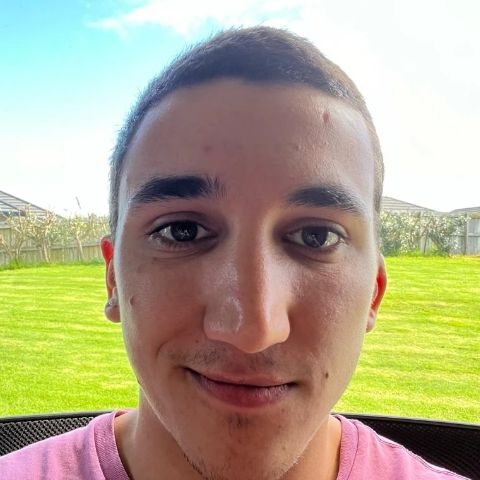
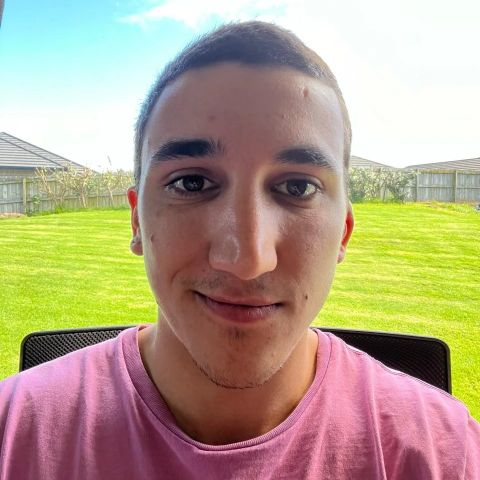
Web: foto con más aire y puntaje animado al lado de Por qué Compila

diff --git a/index.html b/index.html
@@ -591,6 +591,22 @@ footer .fl svg{width:17px;height:17px}
   .firma{width:170px}
   .app{padding:34px 8px 9px;gap:5px}.ah b{font-size:14px}.ar{padding:6px 8px;border-radius:10px}.ar b{font-size:11px}.ar small{font-size:9.5px}.tg{font-size:9px;padding:2px 6px}.af{font-size:9.5px;padding:6px 8px}.tabs span{font-size:9.5px;padding:3px 6px}
 }
+
+/* Por qué: puntaje al costado */
+.vsw{display:grid;grid-template-columns:minmax(0,1.4fr) minmax(0,.6fr);gap:22px;margin-top:40px;align-items:stretch}
+.vsw .vs{margin-top:0;max-width:none}
+.pt{border:1px solid var(--line);border-radius:18px;padding:28px 26px;display:flex;flex-direction:column;justify-content:center;gap:26px;background:radial-gradient(90% 70% at 100% 0%,rgba(77,99,255,.2),transparent 70%),var(--card)}
+.pt-h{font-family:var(--mono);font-size:13px;color:var(--dim)}
+.pt-r{display:grid;grid-template-columns:1fr auto;gap:10px 12px;align-items:end}
+.pt-r span{color:var(--dim);font-size:15px}
+.pt-r b{font-size:34px;line-height:1;letter-spacing:-.03em;font-variant-numeric:tabular-nums}
+.pt-r i{grid-column:1/-1;height:10px;border-radius:10px;background:rgba(255,255,255,.07);overflow:hidden}
+.pt-r u{display:block;height:100%;width:0;border-radius:10px;background:#6f7488;transition:width 1.3s cubic-bezier(.2,.8,.2,1)}
+.pt-r.md u{background:#ffc56d}
+.pt-r.y span{color:var(--txt);font-weight:700}
+.pt-r.y b{background:linear-gradient(90deg,#9fb0ff,var(--ok));-webkit-background-clip:text;background-clip:text;color:transparent;font-size:46px}
+.pt-r.y u{background:linear-gradient(90deg,var(--acc),var(--ok));box-shadow:0 0 18px rgba(61,220,151,.45)}
+@media (max-width:860px){.vsw{grid-template-columns:1fr}.pt{padding:22px;gap:20px}}
 </style>
 </head>
 <body>
@@ -671,7 +687,7 @@ footer .fl svg{width:17px;height:17px}
 <section class="sec porque" id="porque">
   <div class="wrap">
     <h2>Por qué Compila.</h2>
-    <div class="vs" role="table" aria-label="Compila frente a otras opciones">
+    <div class="vsw"><div class="vs" role="table" aria-label="Compila frente a otras opciones">
       <div class="vs-r vs-hd" role="row"><span role="columnheader"></span><span role="columnheader">Chats y planillas</span><span role="columnheader">Apps genéricas</span><span role="columnheader" class="vs-y">Compila</span></div>
       <div class="vs-r" role="row"><span role="cell">Hecho a tu medida</span><i role="cell" class="no" aria-label="No"></i><i role="cell" class="mid" aria-label="A medias"></i><i role="cell" class="si" aria-label="Sí"></i></div>
       <div class="vs-r" role="row"><span role="cell">Con tu marca</span><i role="cell" class="no" aria-label="No"></i><i role="cell" class="mid" aria-label="A medias"></i><i role="cell" class="si" aria-label="Sí"></i></div>
@@ -679,6 +695,11 @@ footer .fl svg{width:17px;height:17px}
       <div class="vs-r" role="row"><span role="cell">Lo probás antes de decidir</span><i role="cell" class="no" aria-label="No"></i><i role="cell" class="mid" aria-label="A medias"></i><i role="cell" class="si" aria-label="Sí"></i></div>
       <div class="vs-r" role="row"><span role="cell">Te atiende quien lo hizo</span><i role="cell" class="no" aria-label="No"></i><i role="cell" class="no" aria-label="No"></i><i role="cell" class="si" aria-label="Sí"></i></div>
     </div>
+    <div class="pt" aria-hidden="true"><div class="pt-h">Puntaje sobre 5</div>
+      <div class="pt-r" data-c="1"><span>Chats y planillas</span><b>0</b><i><u></u></i></div>
+      <div class="pt-r md" data-c="2"><span>Apps genéricas</span><b>0</b><i><u></u></i></div>
+      <div class="pt-r y" data-c="3"><span>Compila</span><b>0</b><i><u></u></i></div>
+    </div></div>
   </div>
 </section>
 
@@ -871,7 +892,7 @@ saltar.addEventListener("click", () => {
   // Etiquetas de la comparación para el celular
 
   // Aparecer al entrar en pantalla
-  $$("h2, .vs-r, .pj, .pl, .faq, .form, .pnote, .yc, .pvc").forEach(e => { if (!e.closest(".stk, .dia, .d-in, .tst-in")) e.classList.add("rv"); });
+  $$("h2, .vs-r, .pt, .pj, .pl, .faq, .form, .pnote, .yc, .pvc").forEach(e => { if (!e.closest(".stk, .dia, .d-in, .tst-in")) e.classList.add("rv"); });
   const io = new IntersectionObserver(es => es.forEach(e => { if (e.isIntersecting) { e.target.classList.add("in"); io.unobserve(e.target); } }), {rootMargin:"0px 0px -8% 0px"});
   $$(".rv").forEach(e => io.observe(e));
 
@@ -952,6 +973,17 @@ saltar.addEventListener("click", () => {
   const gr = $("#gr"), gv = $("#gv"), g1 = $("#g1"), g2 = $("#g2"), g3 = $("#g3");
   const calcG = () => { const q = +gr.value; gv.textContent = q; g1.textContent = Math.round(q * .35) + " kg"; g2.textContent = Math.max(1, Math.ceil(q / 14)) + " insumos"; g3.textContent = Math.max(1, Math.ceil(q / 11)); };
   gr.addEventListener("input", calcG); calcG();
+  // Puntaje de "Por qué Compila": se calcula de la tabla (tilde = 1, a medias = 0,5)
+  const filasVs = $$(".vs-r:not(.vs-hd)");
+  $$(".pt-r").forEach(r => {
+    const c = +r.dataset.c;
+    r.dataset.v = filasVs.reduce((t, f) => { const x = f.children[c]; return t + (x.classList.contains("si") ? 1 : x.classList.contains("mid") ? .5 : 0); }, 0);
+  });
+  new IntersectionObserver((es, o) => es.forEach(e => { if (!e.isIntersecting) return; o.disconnect();
+    $$(".pt-r").forEach(r => { const v = +r.dataset.v, b = r.querySelector("b"), u = r.querySelector("u"), t0 = performance.now();
+      u.style.width = (v / filasVs.length * 100) + "%";
+      const tick = now => { const k = Math.min(1, (now - t0) / 1300), x = v * (1 - Math.pow(1 - k, 3)); b.textContent = (Math.round(x * 2) / 2).toString().replace(".", ","); if (k < 1) requestAnimationFrame(tick); };
+      requestAnimationFrame(tick); }); }), {threshold: .4}).observe($(".pt"));
   const fw = $(".fw"), lis = $$(".fases li"), lnf = $("#lnf"), dfill = $("#dfill"), dpct = $("#dpct"), dtxt = $("#dtxt");
   const ETAPAS = ["Esperando inicio","Relevamiento","Prototipo funcional","Desarrollo y pruebas","Puesta en producción","En línea, con soporte"];
   function frame2() {
